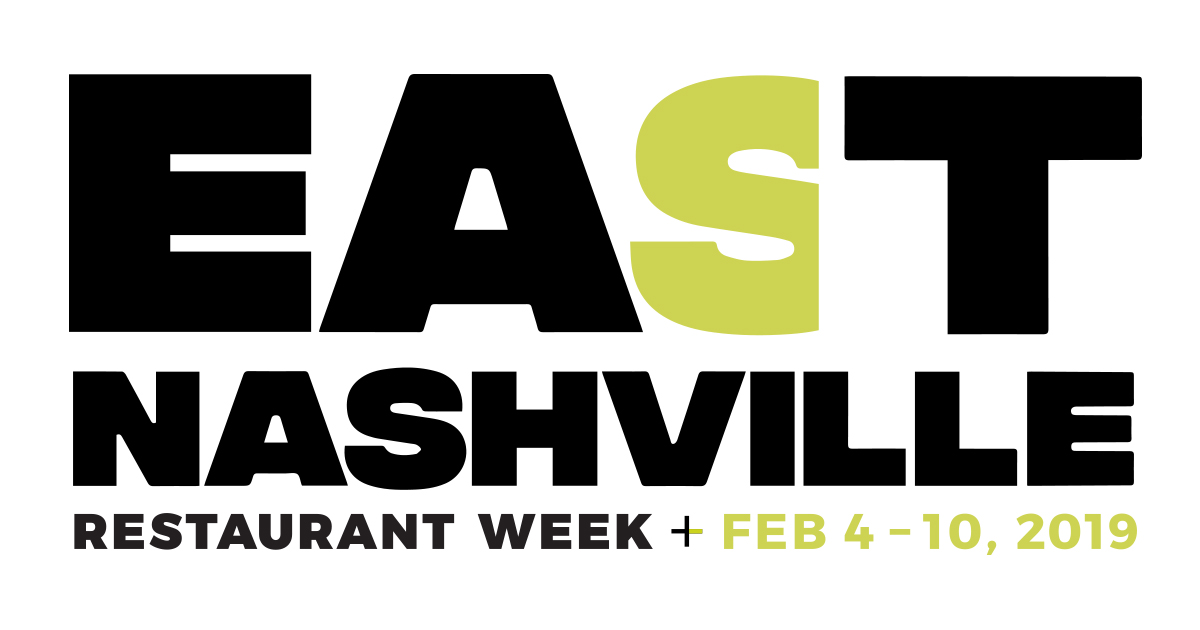
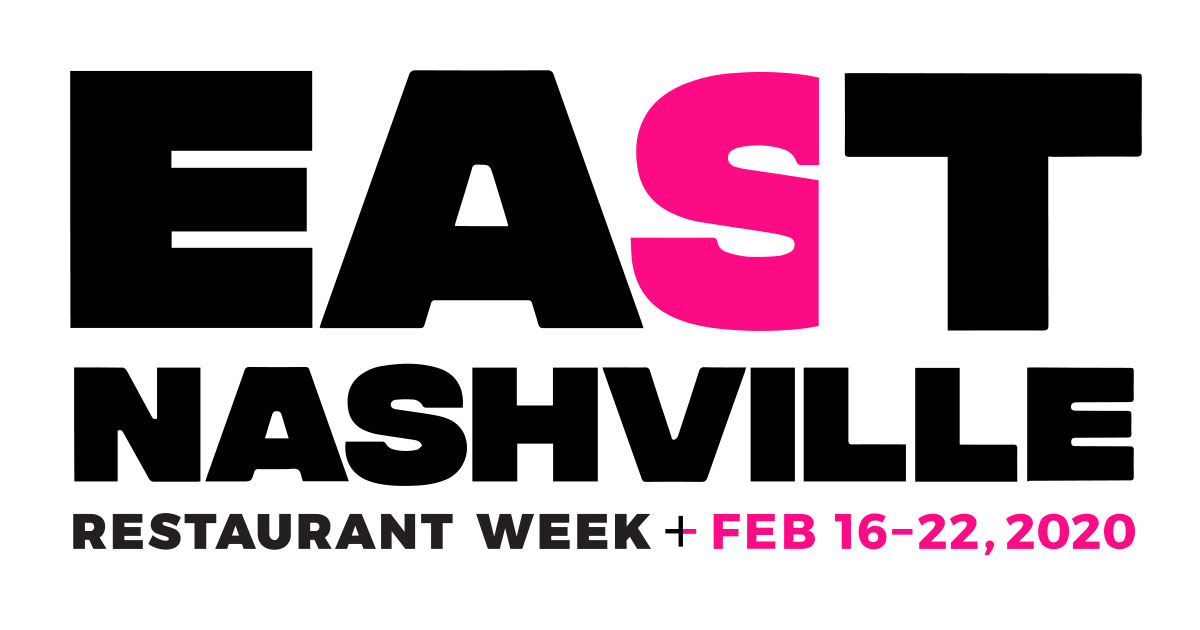
added Margot, Setsun, and new social graphic

diff --git a/src/App/PartnersSection/patners-list.js b/src/App/PartnersSection/patners-list.js
@@ -25,6 +25,8 @@ import LouLogo from 'assets/logos/lou.png';
 import LouBanner from 'assets/banners/lou.jpg';
 import NicolettosLogo from 'assets/logos/nico.jpg';
 import NicolettosBanner from 'assets/banners/nico.jpg';
+import MargotLogo from 'assets/logos/margot.jpg';
+import MargotBanner from 'assets/banners/margot.jpg';
 
 const partners = [
   // {
@@ -97,6 +99,17 @@ const partners = [
     map: '1035 W Eastland Ave',
     offering: '10% off of your food bill',
     res: 'https://resy.com/cities/bna/peninsula'
+  },
+  {
+    name: 'Margot',
+    logo: MargotLogo,
+    image: MargotBanner,
+    blurb: 'Margot café & bar is a French inspired restaurant with southern influence located at the Five Points in the heart of East Nashville. The menu changes daily, features locally sourced products and hinges upon seasonality, freshness and simplicity. It is owned and operated by chef Margot McCormack. The building itself dates back to the 1930’s and was originally Fluty’s service station. The space was transformed in 2001 into a cozy neighborhood gathering place. Brick walls are simply adorned with copper pots, Italian plates and antique mirrors. A playful use of color creates a vibrant yet warm and comfortable interior. The restaurant also features a covered brick patio, flower filled gardens, a marble bar, an open kitchen and a mezzanine dining area.',
+    phone: '(615) 228-4864',
+    web: 'margotcafe.com',
+    map: '1017 Woodland Street',
+    offering: '',
+    res: ''
   },
   {
     name: "Nicoletto's",
@@ -199,25 +212,6 @@ const partners = [
   //   phone: '(615) 915-3102',
   //   web: 'tkotn.com',
   //   map: '4204 Gallatin Pike',
-  //   offering: null,
-  //   menu: null,
-  //   res: null
-  // },
-  // {
-  //   name: 'Margot',
-  //   logo: MargotLogo,
-  //   image: MargotImg,
-  //   blurb: `Margot café & bar is a French inspired restaurant with southern influence located at the
-  //     Five Points in the heart of East Nashville. The menu changes daily, features locally sourced products
-  //     and hinges upon seasonality, freshness and simplicity. It is owned and operated by chef Margot McCormack.
-  //     The building itself dates back to the 1930’s and was originally Fluty’s service station. The space
-  //     was transformed in 2001 into a cozy neighborhood gathering place. Brick walls are simply adorned with
-  //     copper pots, Italian plates and antique mirrors. A playful use of color creates a vibrant yet warm and
-  //     comfortable interior. The restaurant also features a covered brick patio, flower filled gardens, a
-  //     marble bar, an open kitchen and a mezzanine dining area.`,
-  //   phone: '(615) 228-4864',
-  //   web: 'margotcafe.com',
-  //   map: '1017 Woodland Street',
   //   offering: null,
   //   menu: null,
   //   res: null
